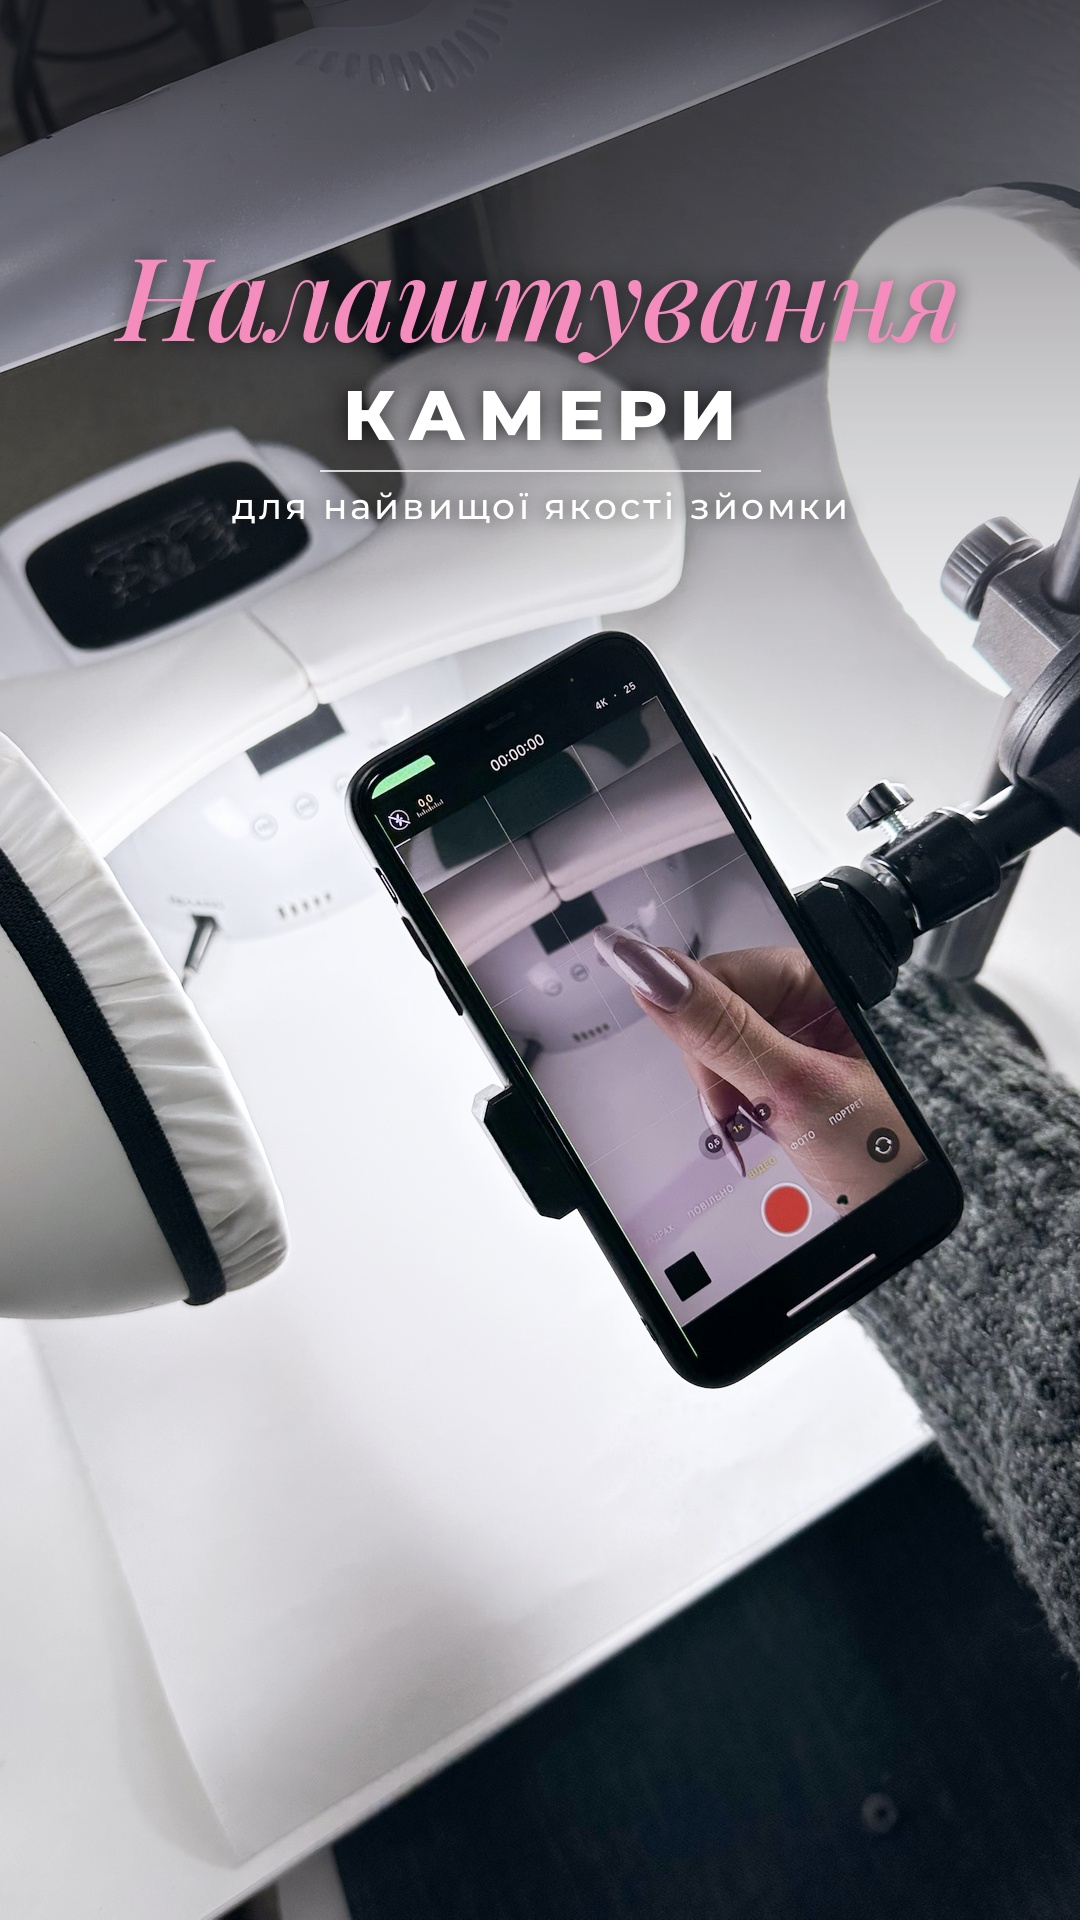
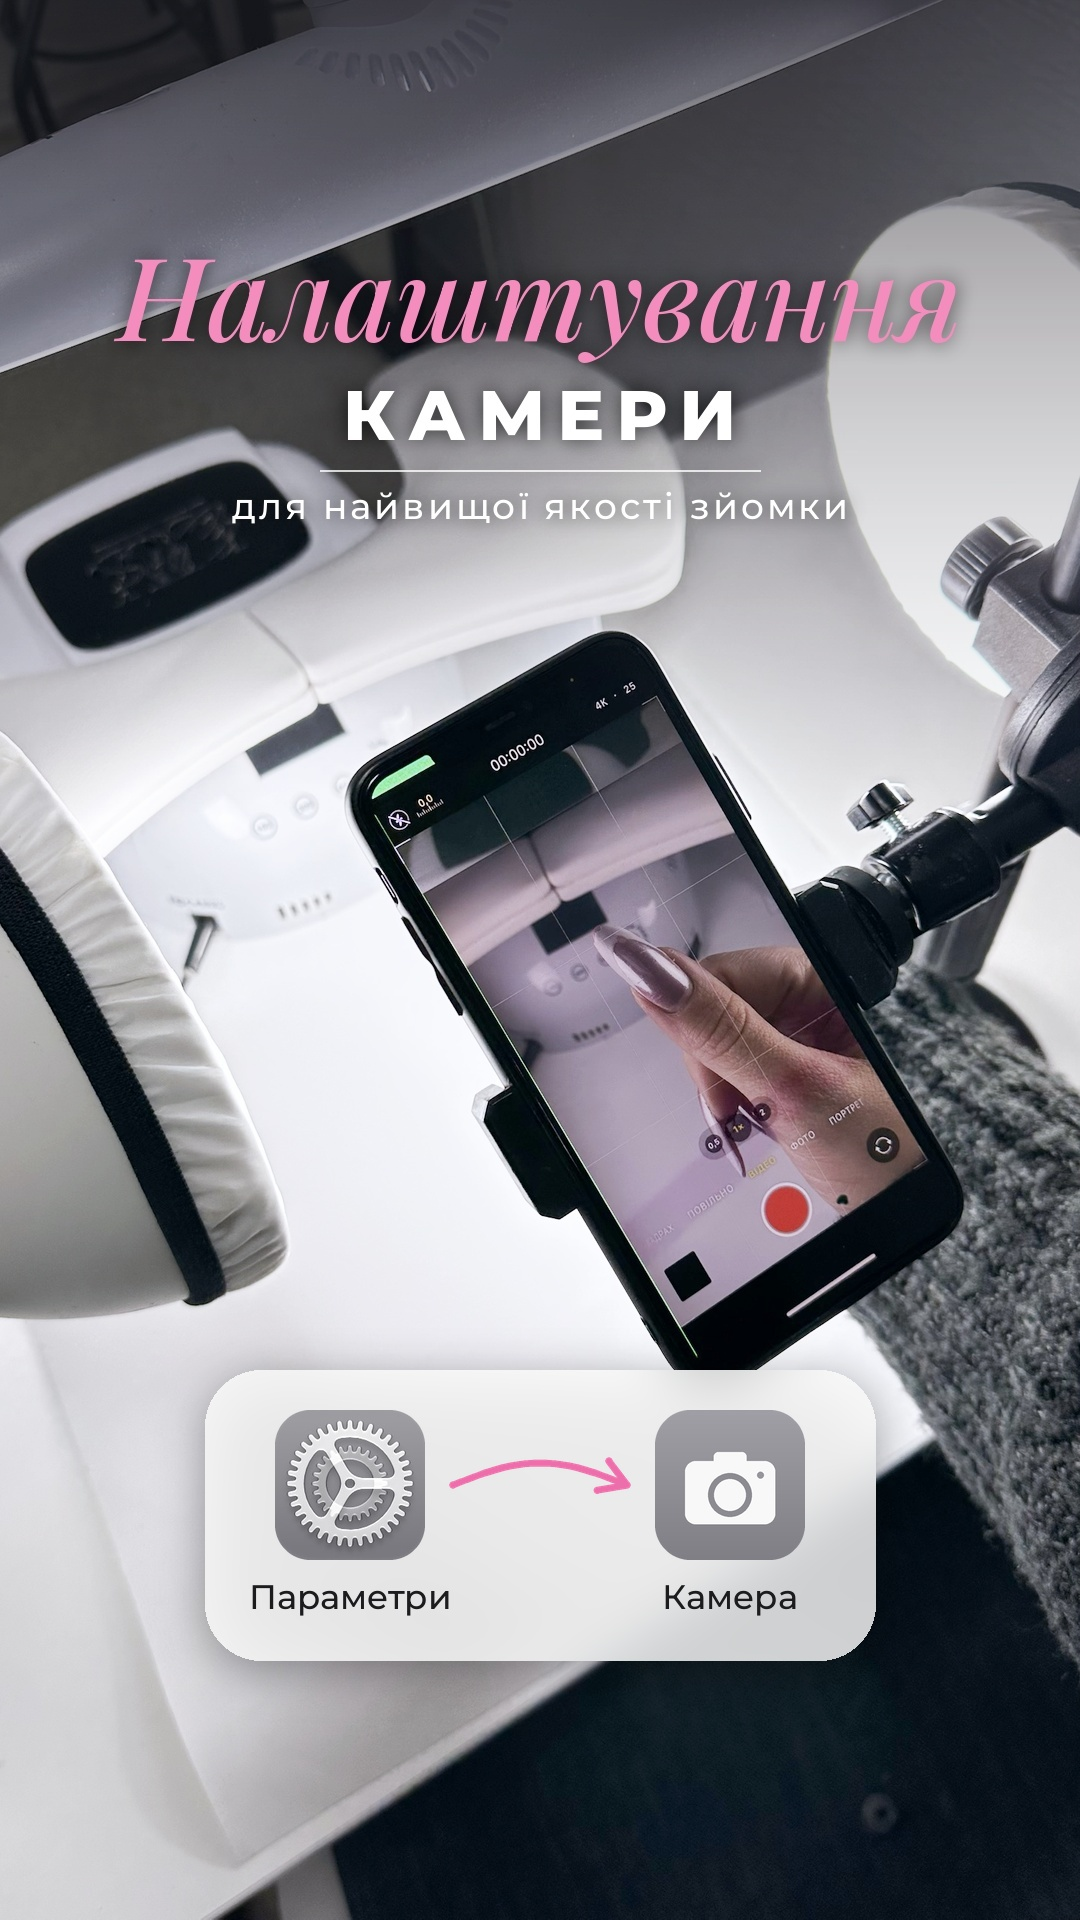
Обкладинка «Налаштування камери»: іконки Параметри → Камера зі стрілочкою
Claude-Session: https://claude.ai/code/session_0191xVL2hi5vHUvM1ix6pauC

Changed region(s): [[0.1528, 0.6875, 0.825, 0.875]]

diff --git a/cover/build_oblozhka_nalashtuvannia_ikonky.py b/cover/build_oblozhka_nalashtuvannia_ikonky.py
@@ -1,0 +1,50 @@
+# Додає на обкладинку іконки «Параметри» → «Камера» зі стрілочкою
+import sys, numpy as np
+from PIL import Image, ImageDraw, ImageFilter, ImageFont
+R=sys.argv[1]; SC=3
+IN=f'{R}/cover/oblozhka_nalashtuvannia.jpg'
+def M(s,w):
+    f=ImageFont.truetype(f'{R}/styl/fonts/Montserrat%5Bwght%5D.ttf',s); f.set_variation_by_axes([w]); return f
+def squircle(sz): 
+    m=Image.new('L',(sz*SC,sz*SC),0); ImageDraw.Draw(m).rounded_rectangle((0,0,sz*SC-1,sz*SC-1),radius=int(sz*SC*0.235),fill=255); return m.resize((sz,sz),Image.LANCZOS)
+def grad(sz,top,bot):
+    g=np.linspace(0,1,sz)[:,None,None]; a=np.array(top)*(1-g)+np.array(bot)*g; return Image.fromarray(np.repeat(a,sz,1).astype(np.uint8))
+def settings_icon(sz):
+    src=Image.open(f'{R}/styl/obladnannia/src_parametry.jpg').convert('RGB').crop((53,15,247,209)).resize((sz,sz),Image.LANCZOS)
+    o=src.convert('RGBA'); o.putalpha(squircle(sz)); return o
+def camera_icon(sz):
+    k=SC; S2=sz*k; bg=grad(S2,(160,159,165),(128,127,133)).convert('RGBA'); d=ImageDraw.Draw(bg)
+    W=(248,248,248,255); cx=S2/2
+    bw,bh=S2*0.60,S2*0.42; x0,y0=cx-bw/2,S2*0.34
+    d.rounded_rectangle((cx-S2*0.11,y0-S2*0.06,cx+S2*0.11,y0+S2*0.04),radius=S2*0.03,fill=W)
+    d.rounded_rectangle((x0,y0,x0+bw,y0+bh),radius=S2*0.07,fill=W)
+    ly=y0+bh*0.54; r1=S2*0.145; r2=S2*0.105
+    d.ellipse((cx-r1,ly-r1,cx+r1,ly+r1),fill=(140,139,145,255)); d.ellipse((cx-r2,ly-r2,cx+r2,ly+r2),fill=W)
+    d.ellipse((x0+bw*0.80,y0+bh*0.17,x0+bw*0.80+S2*0.045,y0+bh*0.17+S2*0.045),fill=(150,150,156,255))
+    o=bg.resize((sz,sz),Image.LANCZOS); o.putalpha(squircle(sz)); return o
+im=Image.open(IN).convert('RGBA'); W2,H2=im.size
+isz=150; gap=230; cy=1410
+xL=W2/2-gap/2-isz; xR=W2/2+gap/2
+# frosted card
+cx0,cx1,cy0,cy1=int(xL-70),int(xR+isz+70),cy-40,cy+isz+100
+sh=Image.new('L',(W2,H2),0); ImageDraw.Draw(sh).rounded_rectangle((cx0,cy0+10,cx1,cy1+10),radius=56,fill=90); sh=sh.filter(ImageFilter.GaussianBlur(22))
+im=Image.composite(Image.new('RGBA',(W2,H2),(0,0,0,255)),im,sh)
+blur=im.filter(ImageFilter.GaussianBlur(25)); cm=Image.new('L',(W2,H2),0); ImageDraw.Draw(cm).rounded_rectangle((cx0,cy0,cx1,cy1),radius=56,fill=255)
+im=Image.composite(blur,im,cm)
+card=Image.new('RGBA',(W2,H2),(0,0,0,0)); ImageDraw.Draw(card).rounded_rectangle((cx0,cy0,cx1,cy1),radius=56,fill=(255,255,255,205)); im.alpha_composite(card)
+im.alpha_composite(settings_icon(isz),(int(xL),cy)); im.alpha_composite(camera_icon(isz),(int(xR),cy))
+d=ImageDraw.Draw(im); f=M(34,500)
+for x,t in [(xL,'Параметри'),(xR,'Камера')]:
+    tw=d.textlength(t,font=f); d.text((x+isz/2-tw/2,cy+isz+16),t,font=f,fill=(28,28,30))
+# arrow (pink, slightly curved)
+A=Image.new('RGBA',(W2*SC,H2*SC),(0,0,0,0)); da=ImageDraw.Draw(A); P=(236,110,170,255)
+x0,x1=(xL+isz+28)*SC,(xR-28)*SC; ym=(cy+isz/2)*SC
+pts=[(x0+(x1-x0)*t, ym-np.sin(np.pi*t)*22*SC) for t in np.linspace(0,1,40)]
+da.line(pts,fill=P,width=7*SC,joint='curve')
+ex,ey=pts[-1]; px,py=pts[-4]; ang=np.arctan2(ey-py,ex-px)
+for s in (+1,-1):
+    a2=ang+np.pi-s*0.55; da.line([(ex,ey),(ex+np.cos(a2)*30*SC,ey+np.sin(a2)*30*SC)],fill=P,width=7*SC)
+    da.ellipse((ex+np.cos(a2)*30*SC-3.5*SC,ey+np.sin(a2)*30*SC-3.5*SC,ex+np.cos(a2)*30*SC+3.5*SC,ey+np.sin(a2)*30*SC+3.5*SC),fill=P)
+da.ellipse((pts[0][0]-3.5*SC,pts[0][1]-3.5*SC,pts[0][0]+3.5*SC,pts[0][1]+3.5*SC),fill=P); da.ellipse((ex-3.5*SC,ey-3.5*SC,ex+3.5*SC,ey+3.5*SC),fill=P)
+im.alpha_composite(A.resize((W2,H2),Image.LANCZOS))
+im.convert('RGB').save(f'{R}/cover/oblozhka_nalashtuvannia.jpg',quality=95)
